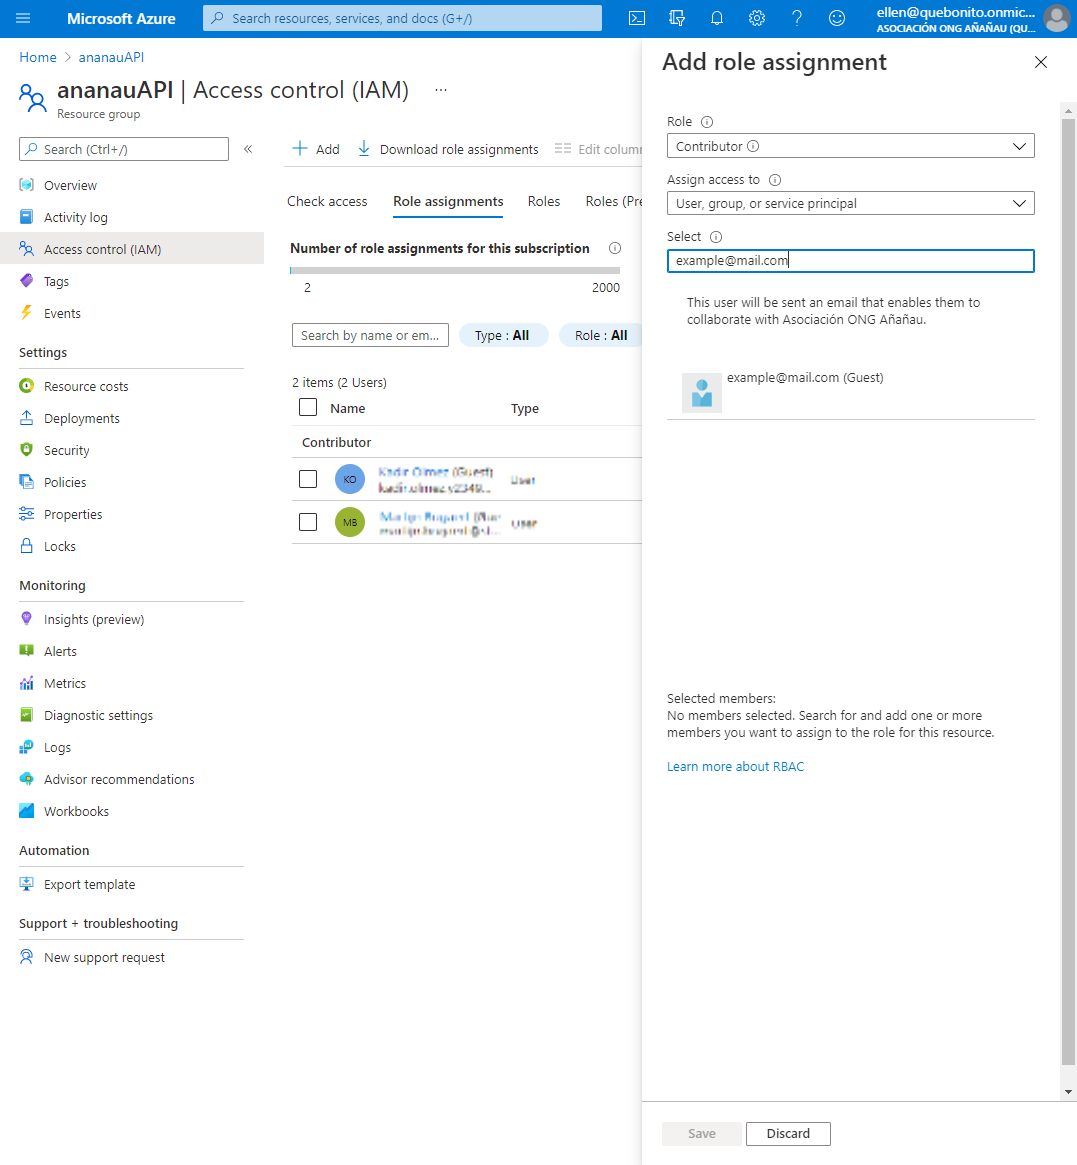
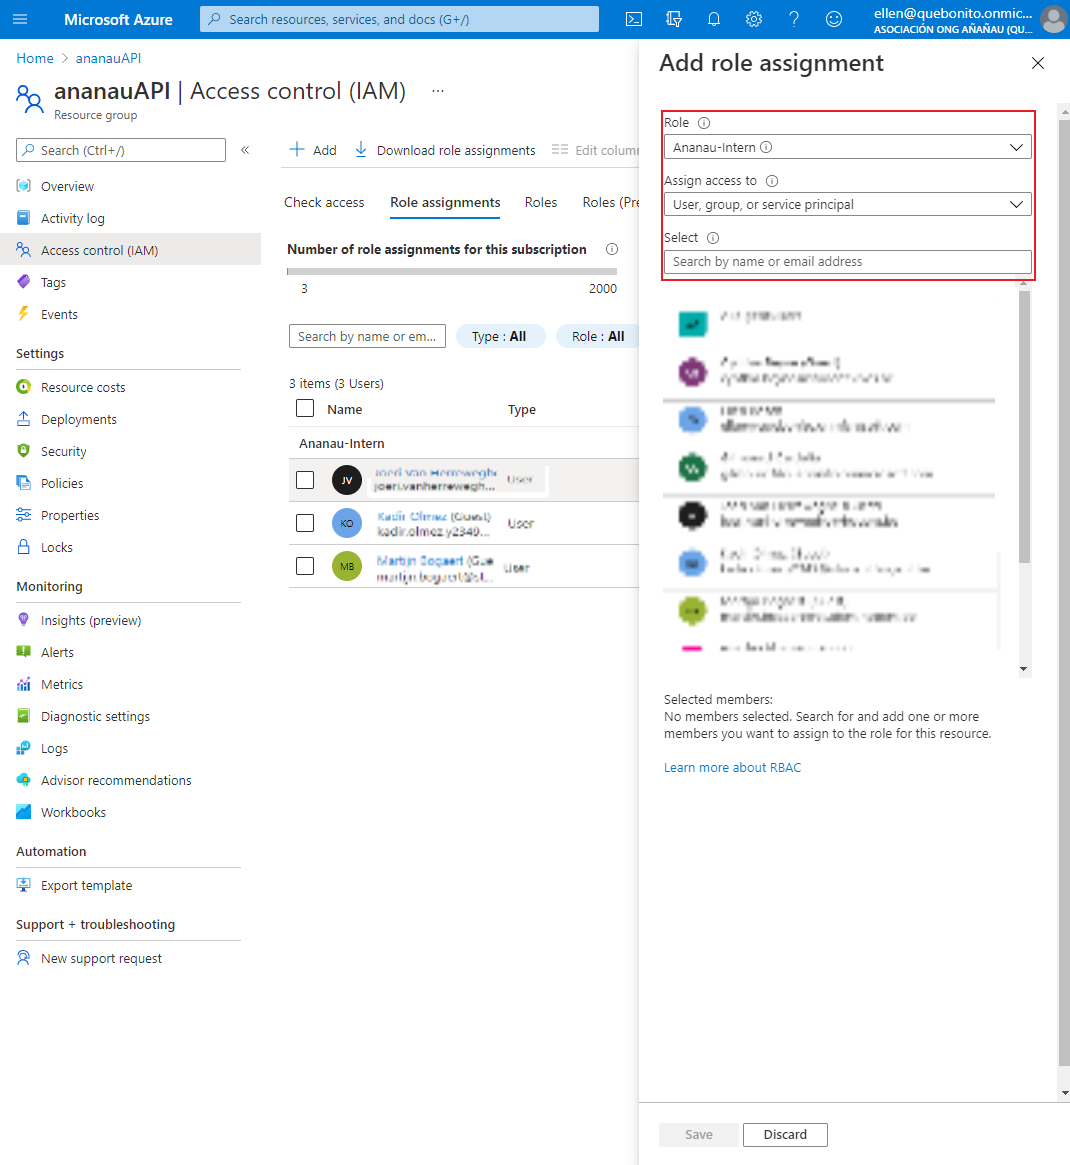
docs

diff --git a/src/app/modules/it-documentation/getting-started/s0-preparations/s0-preparations.component.html b/src/app/modules/it-documentation/getting-started/s0-preparations/s0-preparations.component.html
@@ -21,8 +21,37 @@
         <p>Log in to Azure and open the Ananau Resource Group named <kbd>ananauAPI</kbd>. If you don't have access
             to the Azure portal yet please contact <kbd>Ellen Bosh</kbd> or <kbd>Gilmourd Cardeña Pérez</kbd>. They can
             give
-            you access to the portal, step-by-step instructions can be found <a (click)="scrollToElement(azureaccess)">below.</a></p>
+            you access to the portal, step-by-step instructions can be found <a
+                (click)="scrollToElement(azureaccess)">below.</a></p>
 
+        <h5 class="display">Cannot see Añañau resources?</h5>
+        <p>First, make sure one of the admins (Ellen or Gilmourd) has given you access to the resource group. If you're
+            sure you have access but still cannot see the Añañau resource group, it may be because you need to switch
+            directories. It is very simple, click on your profile picture located top-right of the screen and then click
+            on the button <kbd>Switch Directory</kbd>. You'll see a list of all the resources you have access to.
+            Select <kbd>Asociación ONG Añañau</kbd>.</p>
+        <div class="w-100">
+            <img src="../../../../../assets/images/it-documentation/getting-started/s0-6.png"
+                class="center-image w-25 d-block" alt="">
+        </div>
+
+        <h4 class="display">Step 2 - Give your personal Github account access to the ananauPeru repo. </h4>
+        <p>Log in to Github with the IT email address of Ananau; <kbd>it@ananau.org</kbd>. The password for this account
+            can be found in the Azure Vault; navigate to <kbd>Azure Ananau > ananau-master-vault > Secrets >
+                github-it-ananau</kbd>.</p>
+        <p>For each repository (there are currently two active; <kbd>ananau-bibliotheek-angular</kbd> and
+            <kbd>ananau-bibliotheek-api</kbd>) go to <kbd>Settings > Manage access</kbd> to add your personal (or
+            school) Github account to the collaborators. Also, if there are still accounts from previous students who
+            don't need access anymore (if you are sure), feel free to remove them.
+        </p>
+        <img src="../../../../../assets/images/it-documentation/getting-started/s0-7.png" class="center-image w-75"
+            alt="">
+
+        <h4 class="display">Step 3 - Finishing </h4>
+        <p>Now login to your personal Github account and make sure you have access to the repositories. Congrats! You
+            now have access to all resources you need to start developing some really good stuff for Ananau!</p>
+        <p>Don't forget, if you ever need access to a resource but don't know the username/password, the first place to
+            check is the Azure Vault. If it isn't listed there, contact Ellen or Gilmourd.</p>
 
         <h2 #azureaccess class="display">Giving Access to New Users</h2>
         <p>In the past everyone logged in from the same master account with all the permissions for the Azure portal.
@@ -34,24 +63,32 @@
         <h4 class="display">Step 1 - Log in to Azure </h4>
         <p>Log in to Azure with the owner account <kbd>ellen@quebonito.onmicrosoft.com</kbd>. You will be presented with
             an overview like below, please select the resource group named <kbd>ananauAPI</kbd>.</p>
-        <img src="../../../../../assets/images/it-documentation/getting-started/s0-1.png" class="center-image" alt="">
+        <img src="../../../../../assets/images/it-documentation/getting-started/s0-1.png" class="center-image w-75"
+            alt="">
 
         <h4 class="display">Step 2 - Navigate to Access Control (IAM)</h4>
         <p>Click on <kbd>Access Control (IAM)</kbd> which is located on the left navigation panel.</p>
-        <img src="../../../../../assets/images/it-documentation/getting-started/s0-2.png" class="center-image" alt="">
-        
+        <img src="../../../../../assets/images/it-documentation/getting-started/s0-2.png" class="center-image w-75"
+            alt="">
+
         <h4 class="display">Step 3 - Navigate to Role Assignments Tab</h4>
-        <p>Click on <kbd>Role Assignments (3)</kbd> which is located on the top navigation bar within the IAM control panel. Next click on <kbd>+ Add (4)</kbd> and select <kbd>Add role assignment</kbd> from the dropdown to assign a new role to a user.</p>
-        <img src="../../../../../assets/images/it-documentation/getting-started/s0-3.png" class="center-image" alt="">
+        <p>Click on <kbd>Role Assignments (3)</kbd> which is located on the top navigation bar within the IAM control
+            panel. Next click on <kbd>+ Add (4)</kbd> and select <kbd>Add role assignment</kbd> from the dropdown to
+            assign a new role to a user.</p>
+        <img src="../../../../../assets/images/it-documentation/getting-started/s0-3.png" class="center-image w-75"
+            alt="">
 
         <h4 class="display">Step 4 - Add Role & User</h4>
-        <p>A side-panel will show up where you need to fill in the following information and click on <kbd>Save</kbd>.</p>
+        <p>A side-panel will show up where you need to fill in the following information and click on <kbd>Save</kbd>.
+        </p>
         <ul>
-            <li>Role: <u>contributer</u></li>
+            <li>Role: <strong><u>Ananau-Intern</u></strong> (very important to select the correct role, make sure you
+                select 'Ananau-Intern')</li>
             <li>Assign access to: <u>User, group, or service principal</u></li>
             <li>Select: <u>example@email.com</u></li>
         </ul>
         <p>The user has been granted access to the resource group.</p>
-        <img src="../../../../../assets/images/it-documentation/getting-started/s0-4.png" class="center-image" alt="">
+        <img src="../../../../../assets/images/it-documentation/getting-started/s0-4.png" class="center-image w-75"
+            alt="">
     </div>
 </div>

diff --git a/src/app/modules/it-documentation/getting-started/s1-setting-up/s1-setting-up.component.html b/src/app/modules/it-documentation/getting-started/s1-setting-up/s1-setting-up.component.html
@@ -1,1 +1,83 @@
-<p>s1-setting-up works!</p>
+<div class="row">
+    <div class="col-12">
+        <h1 class="display-4">
+            Step 1 - Setting Up
+        </h1>
+        <hr />
+        <p class="lead h6"> Created: 29/04/2021 | Last Update: 06/05/2021</p>
+    </div>
+    <div class="col-12 mt-3">
+        <p class="lead">
+            Now you have access to the resources, what's next?
+        </p>
+        <p>
+            Now we have access we can start working for Ananau. For that, you need some programs to work efficiently. We
+            strongly recommend using the advised editors because this will make your life much easier with much needed
+            extensions.
+        </p>
+        <h4 class="display">Step 1 - Clone the Repo's</h4>
+
+        <p>If you have successfully finished the previous guide, you should have access to the Github repo's of Ananau.
+            Clone them locally to a desired place within your computer. For the purpose of this tutorial i created a new
+            map called <kbd>ananau-tutorial</kbd>.</p>
+        <pre>DESKTOP /ananau-tutorial<br>$ git clone https://github.com/ananauPeru/ananau-bibliotheek-angular.git<br>$ git clone https://github.com/ananauPeru/ananau-bibliotheek-api.git</pre>
+
+        <p>If everything went correctly you should now have two directories.</p>
+
+        <img src="../../../../../assets/images/it-documentation/getting-started/s1-1.png"
+            class="center-image w-75 d-block" alt="">
+
+        <h4 class="display">Step 2 - Necessary Software</h4>
+
+        <p>For the frontend we use <kbd>Visual Studio Code</kbd>, for the backend we use <kbd>Visual Studio
+                2019</kbd> and for DB Management we use <kbd>MySQL Workbench</kbd>. The frontend is written in Angular
+            11.0.9 and for the backend we use .NET Core 5.0.3</p>
+        <p>So next, you need to install:</p>
+        <ul>
+            <li>Visual Studio Code</li>
+            <li>Visual Studio 2019 (or any later version)</li>
+            <li>.NET Core 5.0.x</li>
+            <li>MySQL Workbench</li>
+            <li>Node.js</li>
+            <li>Angular</li>
+            <li>We trust you don't need instructions for this step... :)</li>
+        </ul>
+
+        <h4 class="display">Step 3 - Getting the frontend ready</h4>
+
+        <p>After you've installed all the mentioned software, let's open our frontend in vscode and run the following
+            command within our directory (this can take a while, be patient):</p>
+
+        <pre>DESKTOP /ananau-tutorial/ananau-bibliotheek-frontend<br>$ npm install</pre>
+
+        <p>This installs all the necessary packages for the project, this step should complete without any errors. If
+            you do get errors, please solve them and run it again until it finishes. The result should look something
+            like this:</p>
+
+        <img src="../../../../../assets/images/it-documentation/getting-started/s1-2.png"
+            class="center-image w-75 d-block" alt="">
+
+        <p>Now, run the following command to see if our project builds. Don't worry about the backend for now... we just
+            want to see if our project builds and runs.</p>
+        <pre>DESKTOP /ananau-tutorial/ananau-bibliotheek-frontend<br>$ ng serve</pre>
+        <p>It should compile without issues and should be live on your localhost. The login screen should be shown like
+            this:</p>
+
+        <img src="../../../../../assets/images/it-documentation/getting-started/s1-3.png"
+            class="center-image w-75 d-block" alt="">
+
+        <p>The last step is installing some extensions for vscode to make our life (a lot) easier, not all of them are
+            must-haves, the absolute necessary ones are labeled:</p>
+        <ul>
+            <li>Azure App Service (must-have)</li>
+            <li>Azure Account (must-have)</li>
+            <li>Azure Resources (must-have)</li>
+            <li>Angular Language Service (nice-to-have)</li>
+            <li>Angular 10 Snippets (nice-to-have)</li>
+            <li>Color Highlight (totally optional, highlights color codes in their color)</li>
+            <li>WakaTime (totally optional but GREAT tool to track all your work, more info <a href="www.wakatime.com"
+                    target="_blank">wakatime.com</a>)</li>
+            <li></li>
+        </ul>
+    </div>
+</div>

diff --git a/src/app/modules/it-documentation/it-documentation-routing.module.ts b/src/app/modules/it-documentation/it-documentation-routing.module.ts
@@ -2,6 +2,7 @@ import { NgModule } from '@angular/core'
 import { Routes, RouterModule } from '@angular/router'
 import { AuthGuard } from '../auth/_services/auth.guard'
 import { S0PreparationsComponent } from './getting-started/s0-preparations/s0-preparations.component'
+import { S1SettingUpComponent } from './getting-started/s1-setting-up/s1-setting-up.component'
 import { ITDocumentationComponent } from './it-documentation'
 
 const routes: Routes = [
@@ -16,6 +17,10 @@ const routes: Routes = [
       {
         path: 'getting-started/0-preparations',
         component: S0PreparationsComponent,
+      },
+      {
+        path: 'getting-started/1-setting-up',
+        component: S1SettingUpComponent,
       },
       // {
       //   path: 'books/add-book',

diff --git a/src/app/modules/it-documentation/getting-started/s1-setting-up/s1-setting-up.component.scss b/src/app/modules/it-documentation/getting-started/s1-setting-up/s1-setting-up.component.scss
@@ -1,0 +1,21 @@
+.display {
+    font-family: -apple-system, BlinkMacSystemFont, "Segoe UI", Roboto, "Helvetica Neue", Arial, "Noto Sans", "Liberation Sans", sans-serif, "Apple Color Emoji", "Segoe UI Emoji", "Segoe UI Symbol", "Noto Color Emoji";
+    font-weight: 300 !important;
+    line-height: 1.2;
+    margin-top: 20px;
+    margin-bottom: 20px;
+  }
+  
+  .center-image {
+    width: 100%;
+    margin: auto;
+    display: block;
+  }
+  
+  pre {
+    background-color: #343a40 !important;
+    color: white;
+    padding: 1rem;
+    margin: 2.5rem;
+  }
+  

diff --git a/src/app/modules/it-documentation/getting-started/s0-preparations/s0-preparations.component.scss b/src/app/modules/it-documentation/getting-started/s0-preparations/s0-preparations.component.scss
@@ -9,4 +9,5 @@
 .center-image {
   width: 100%;
   margin: auto;
+  display: block;
 }
